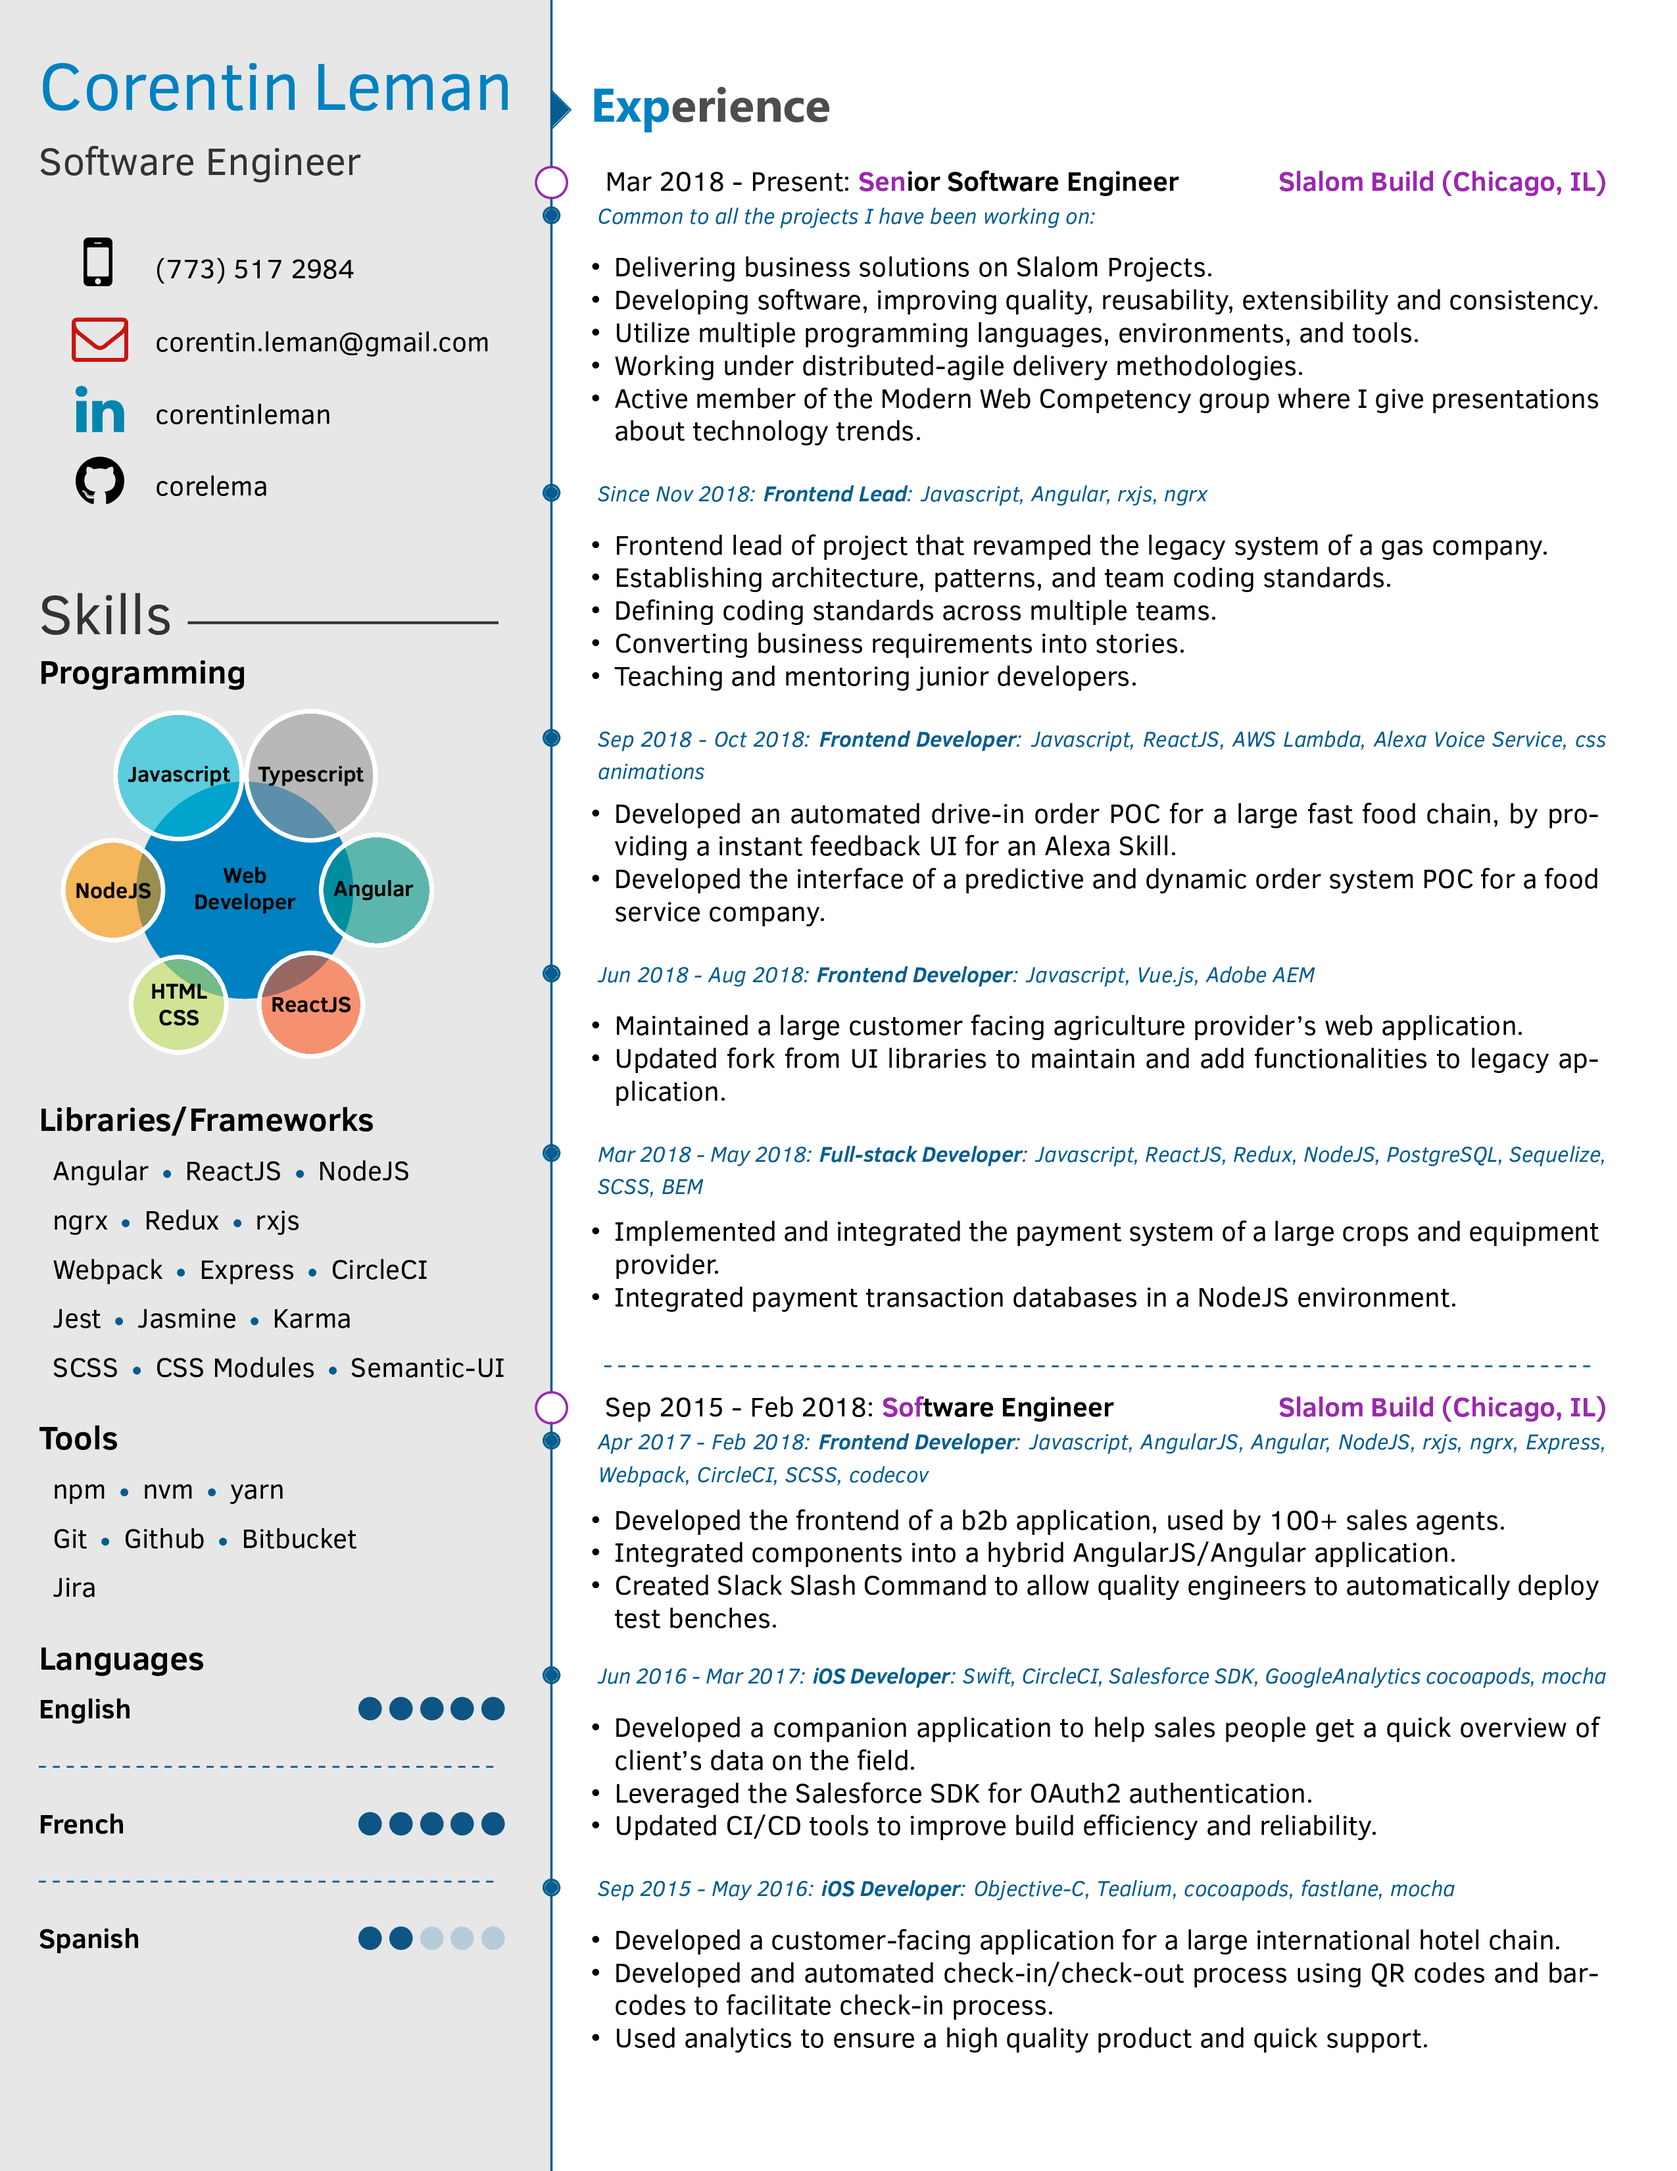
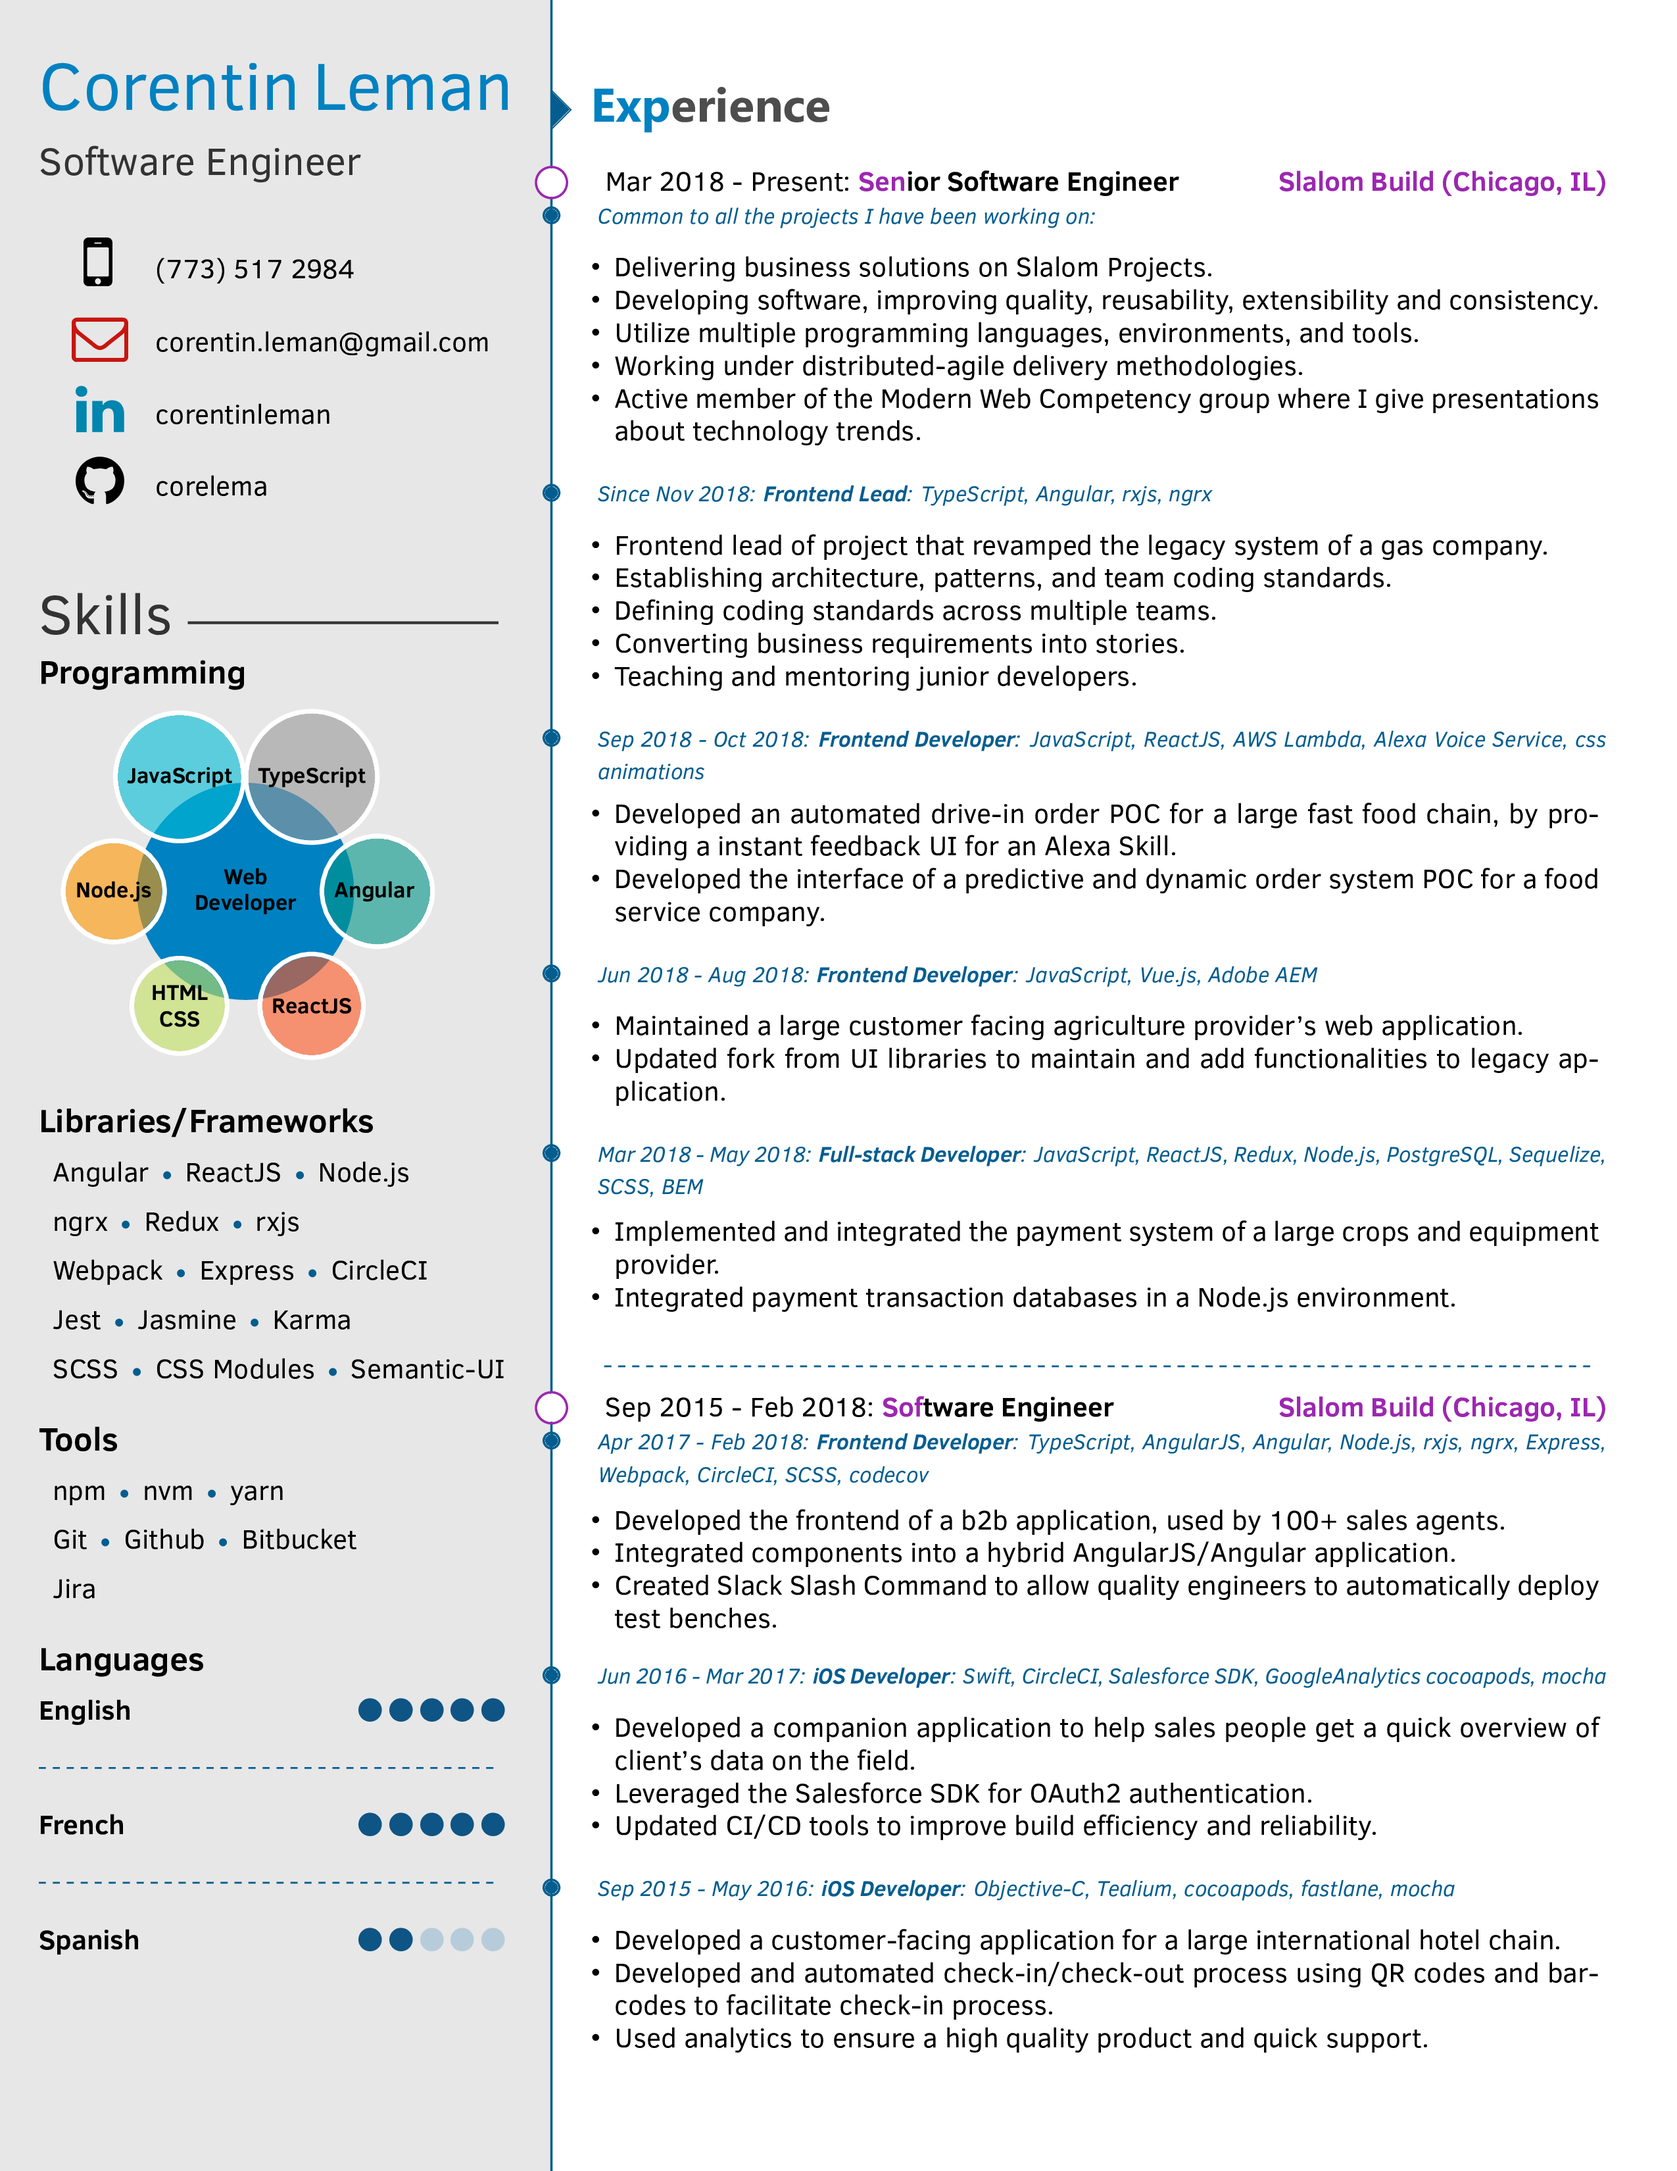
Updated content.

diff --git a/resume.tex b/resume.tex
@@ -64,9 +64,9 @@
 ~
 	\smartdiagram[bubble diagram]{
         \textbf{Web}\\\textbf{Developer},
-        \textbf{Typescript},
-        \textbf{Javascript},
-        \textbf{NodeJS},
+        \textbf{TypeScript},
+        \textbf{JavaScript},
+        \textbf{Node.js},
         \textbf{HTML}\\\textbf{CSS},
         \textbf{ReactJS},
         \textbf{Angular}
@@ -78,7 +78,7 @@
 % Libraries
 \librariesandframeworks{
     {\begin{itemize}[label={}]
-        \item Angular \custombullet ReactJS \custombullet NodeJS 
+        \item Angular \custombullet ReactJS \custombullet Node.js 
         \item ngrx \custombullet Redux \custombullet rxjs
         \item Webpack \custombullet Express \custombullet CircleCI
         \item Jest \custombullet Jasmine \custombullet Karma
@@ -101,7 +101,7 @@
         {\includegraphics[width=8mm]{img/coupons_clicker.png}}
         {Browser Extension}
         {\href{https://chrome.google.com/webstore/detail/coupons-clicker/pobhfamaabhkicbacihdcfgeghelokhf?hl=en-US}{\faChrome}}
-        {Javascript, HTML}
+        {JavaScript, HTML}
         {
             Created a Chrome Extension that automatically clicks all the coupons for the "Just For U" reward program.\\
             It uses vanilla Javascript to find the elements to click, and informs the user of its advancement thanks to a popup.
@@ -122,7 +122,7 @@
         {\includegraphics[width=10mm]{img/react.png}}
         {Web Application}
         {\href{https://github.com/cryptax-org/cryptax-frontend}{\faGithub} \href{https://cryptax.app/}{\faChrome}}
-        {Javascript, ReactJS, Semantic-UI, NodeJS, Redux, Webpack, Duck arch., GCP}
+        {JavaScript, ReactJS, Semantic-UI, Node.js, Redux, Webpack, Duck arch., GCP}
         {
             Created the frontend of a crypto currencies tax calculator application.\\
             While this project is still ongoing, it is a great place for me to experiment with technologies.
@@ -192,7 +192,7 @@
         {}
         {}
         {}
-        {Since Nov 2018: \textbf{Frontend Lead}: Javascript, Angular, rxjs, ngrx}
+        {Since Nov 2018: \textbf{Frontend Lead}: TypeScript, Angular, rxjs, ngrx}
         {\begin{itemize}
             \item Frontend lead of project that revamped the legacy system of a gas company.
             \item Establishing architecture, patterns, and team coding standards.
@@ -205,7 +205,7 @@
 		{}
         {}
         {}
-        {Sep 2018 - Oct 2018: \textbf{Frontend Developer}: Javascript, ReactJS, AWS Lambda, Alexa Voice Service, css animations}
+        {Sep 2018 - Oct 2018: \textbf{Frontend Developer}: JavaScript, ReactJS, AWS Lambda, Alexa Voice Service, css animations}
         {\begin{itemize}
             \item Developed an automated drive-in order POC for a large fast food chain, by providing a instant feedback UI for an Alexa Skill.
             \item Developed the interface of a predictive and dynamic order system POC for a food service company.
@@ -215,7 +215,7 @@
 		{}
         {}
         {}
-        {Jun 2018 - Aug 2018: \textbf{Frontend Developer}: Javascript, Vue.js, Adobe AEM}
+        {Jun 2018 - Aug 2018: \textbf{Frontend Developer}: JavaScript, Vue.js, Adobe AEM}
         {\begin{itemize}
             \item Maintained a large customer facing agriculture provider's web application.
             \item Updated fork from UI libraries to maintain and add functionalities to legacy application.
@@ -225,10 +225,10 @@
 		{}
         {}
         {}
-        {Mar 2018 - May 2018: \textbf{Full-stack Developer}: Javascript, ReactJS, Redux, NodeJS, PostgreSQL, Sequelize, SCSS, BEM}
+        {Mar 2018 - May 2018: \textbf{Full-stack Developer}: JavaScript, ReactJS, Redux, Node.js, PostgreSQL, Sequelize, SCSS, BEM}
         {\begin{itemize}
             \item Implemented and integrated the payment system of a large crops and equipment provider. 
-            \item Integrated payment transaction databases in a NodeJS environment.
+            \item Integrated payment transaction databases in a Node.js environment.
         \end{itemize}}
     \\\divider\\
     \twentyitem
@@ -236,7 +236,7 @@
         {}
         {Software Engineer}
         {\href{https://www.slalom.com/}{Slalom Build (Chicago, IL)}}
-        {Apr 2017 - Feb 2018: \textbf{Frontend Developer}: Javascript, AngularJS, Angular, NodeJS, rxjs, ngrx, Express, Webpack, CircleCI, SCSS, codecov}
+        {Apr 2017 - Feb 2018: \textbf{Frontend Developer}: TypeScript, AngularJS, Angular, Node.js, rxjs, ngrx, Express, Webpack, CircleCI, SCSS, codecov}
         {\begin{itemize}
             \item Developed the frontend of a b2b application, used by 100+ sales agents.
             \item Integrated components into a hybrid AngularJS/Angular application.
